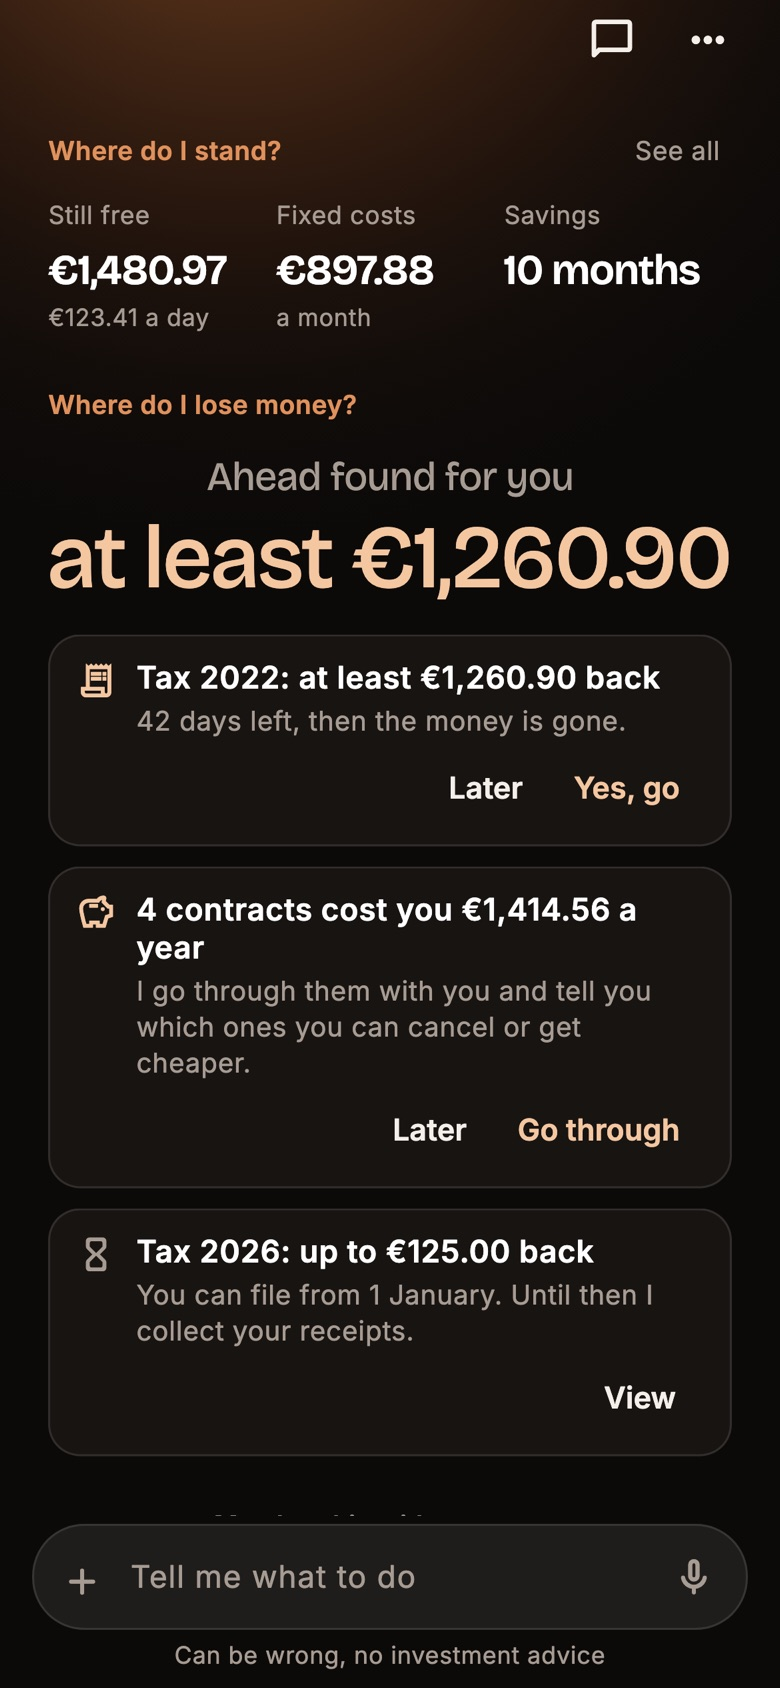
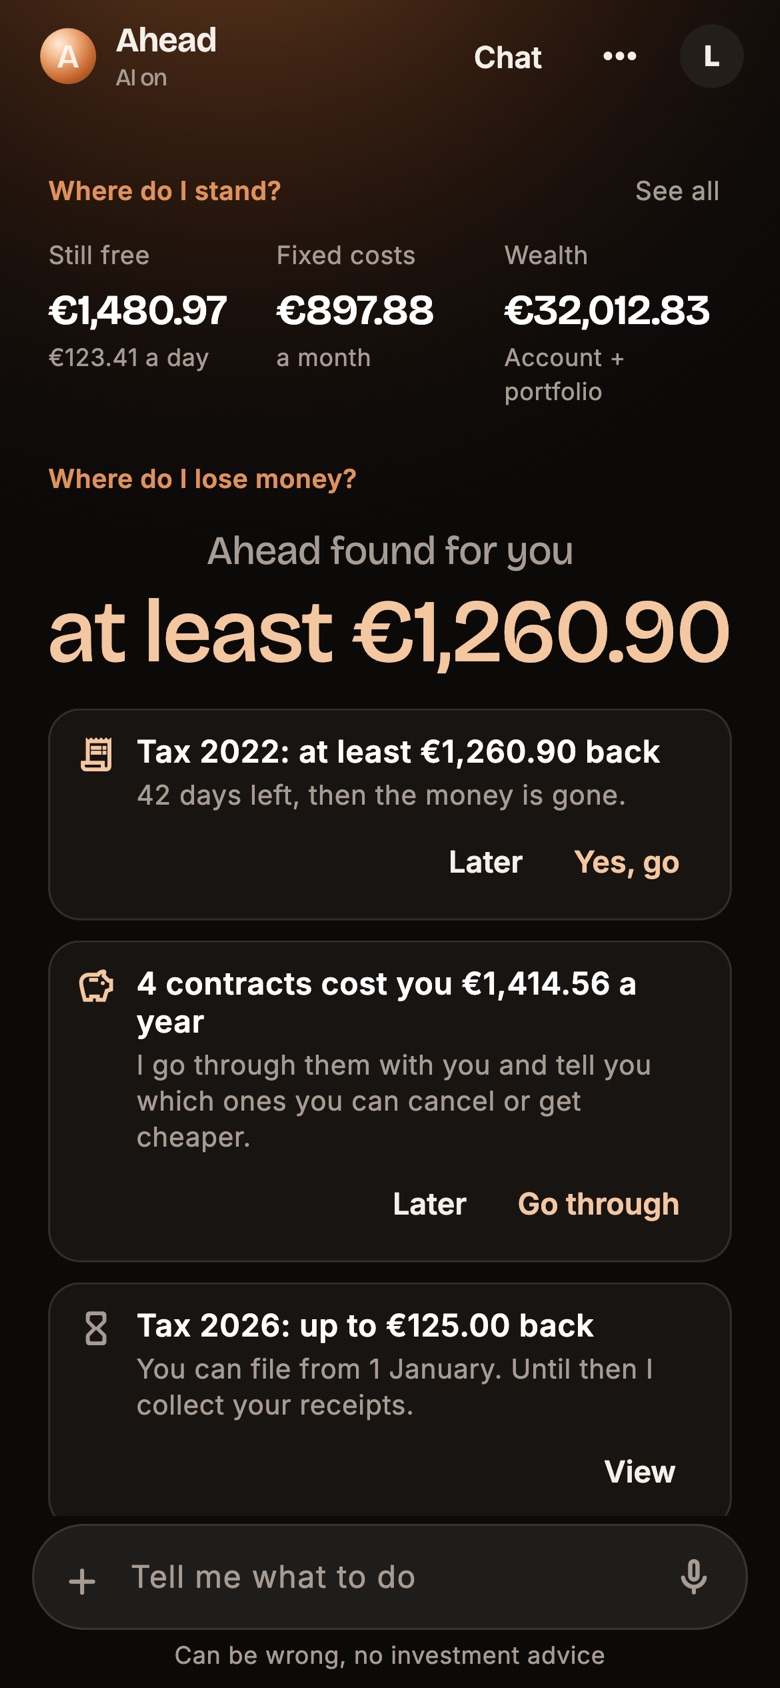
Website: kurze Startseite, Ahead im Gespräch auf dem Handy
- Startseite auf die Aussage gekürzt: drei Fragen mit je einer Zeile,
  "Frag Ahead" und die Warteliste. Die Beispiel-Kästen sind weg.
- Leiste oben nur noch mit Konzept, Sprache und "Jetzt starten"; Preis und
  Sicherheit stehen im Fuß. Am Handy kein Menü mehr.
- Am Desktop sitzen Text und Handy direkt unter der Leiste.
- Das Handy zeigt Ahead im Gespräch: Er meldet sich von selbst und bietet
  den nächsten Schritt an.
- Stile und Skripte tragen eine Versionsnummer, damit Browser nach einem
  Update nicht die alten Dateien zeigen.

diff --git a/landing/index.html b/landing/index.html
@@ -19,7 +19,7 @@
 <link rel="preconnect" href="https://fonts.googleapis.com">
 <link rel="preconnect" href="https://fonts.gstatic.com" crossorigin>
 <link href="https://fonts.googleapis.com/css2?family=Bricolage+Grotesque:opsz,wght@12..96,400..700&family=Figtree:wght@400;500;600;700&display=swap" rel="stylesheet">
-<link rel="stylesheet" href="ahead.css">
+<link rel="stylesheet" href="ahead.css?v=4">
 <script>document.documentElement.classList.add('js')</script>
 </head>
 <body>
@@ -31,19 +31,9 @@
     <a class="brand" href="#" aria-label="Ahead"><span class="coin"><svg><use href="#b"/></svg></span><span class="wm">Ahead.</span></a>
     <nav class="nav-links" aria-label="Seiten" data-en-aria-label="Pages">
       <a class="ghost-btn" href="konzept.html" data-en="Concept">Konzept</a>
-      <a class="ghost-btn" href="preis.html" data-en="Price">Preis</a>
-      <a class="ghost-btn" href="sicherheit.html" data-en="Security">Sicherheit</a>
     </nav>
     <div class="top-actions">
       <button class="ghost-btn" type="button" data-lang aria-label="Sprache wechseln / Switch language">EN</button>
-      <details class="menu">
-        <summary class="ghost-btn" data-en="Menu">Menü</summary>
-        <nav class="menu-panel" aria-label="Seiten" data-en-aria-label="Pages">
-      <a href="konzept.html" data-en="Concept">Konzept</a>
-      <a href="preis.html" data-en="Price">Preis</a>
-      <a href="sicherheit.html" data-en="Security">Sicherheit</a>
-        </nav>
-      </details>
       <a class="cta-btn" href="../" data-app data-en="Start now ↗">Jetzt starten ↗</a>
     </div>
   </div>
@@ -59,14 +49,14 @@
         <a class="btn white" href="../" data-app data-en="Start now ↗">Jetzt starten ↗</a>
         <a class="btn ghost" href="#platz" data-en="Join the waitlist">Auf die Warteliste</a>
       </div>
-      <p class="cta-note hi hi-3" data-en="No sign-up, no access to your bank.">Ohne Anmeldung, ohne Zugang zu deiner Bank.</p>
+      <p class="cta-note hi hi-3" data-en="No sign-up.">Ohne Anmeldung.</p>
     </div>
     <div class="stage" data-stage>
       <div class="phone-tilt" data-phone>
         <div class="phone">
-          <img src="app_feed.jpg" data-en-src="app_feed_en.jpg"
-               data-en-alt="Ahead's feed: where you stand in three numbers and what it found, with amount and deadline."
-               alt="Der Feed von Ahead: dein Stand in drei Zahlen und was er gefunden hat, mit Betrag und Frist."
+          <img src="app_chat.jpg?v=1" data-en-src="app_chat_en.jpg?v=1"
+               data-en-alt="Ahead in a conversation: it speaks up on its own, names a next step and offers to help with it."
+               alt="Ahead im Gespräch: Er meldet sich von selbst, nennt einen nächsten Schritt und bietet an, dabei zu helfen."
                width="780" height="1688">
         </div>
       </div>
@@ -75,84 +65,24 @@
 </section>
 
 <main>
-  <section class="chapter" id="stand">
+  <section class="chapter" id="drei">
     <div class="w">
-      <div class="proof">
-        <div class="copy rise">
-          <h2 class="say" data-en="Where do <em>I stand?</em>">Wo <em>stehe ich?</em></h2>
-          <p class="sub" data-en="What is free this month, what goes out every month no matter what, and what you own in total. From your own numbers, at a glance.">Was diesen Monat frei ist, was jeden Monat fest rausgeht und was du insgesamt hast. Aus deinen eigenen Zahlen, auf einen Blick.</p>
+      <div class="three rise">
+        <div class="q3">
+          <h2 data-en="Where do <em>I stand?</em>">Wo <em>stehe ich?</em></h2>
+          <p data-en="Three numbers from your own bookings.">Drei Zahlen aus deinen eigenen Umsätzen.</p>
         </div>
-        <div class="case rise" data-d="1">
-          <p class="case-tag" data-en="Example · where you stand">Beispiel · dein Stand</p>
-          <dl>
-            <div><dt data-en="Free this month">Frei diesen Monat</dt><dd data-en="€412">412 €</dd></div>
-            <div><dt data-en="Fixed costs a month">Fixkosten im Monat</dt><dd data-en="€1,180">1.180 €</dd></div>
-            <div><dt data-en="Wealth, account + portfolio">Vermögen, Konto + Depot</dt><dd data-en="€4,300">4.300 €</dd></div>
-          </dl>
+        <div class="q3">
+          <h2 data-en="Where do I <em>lose money?</em>">Wo <em>verliere ich Geld?</em></h2>
+          <p data-en="Every find comes with an amount.">Jeder Fund kommt mit Betrag.</p>
+        </div>
+        <div class="q3">
+          <h2 data-en="What is my <em>next step?</em>">Was ist mein <em>nächster Schritt?</em></h2>
+          <p data-en="One step. Ahead does it with you.">Ein Schritt. Ahead erledigt ihn mit dir.</p>
         </div>
       </div>
-    </div>
-  </section>
-
-  <section class="chapter" id="rechnung">
-    <div class="w">
-      <div class="proof">
-        <div class="copy rise">
-          <h2 class="say" data-en="Where do I <em>lose money?</em>">Wo <em>verliere ich Geld?</em></h2>
-          <p class="sub" data-en="An example, not a promise. The tax figure is an estimate; the real number is in your tax notice.">Ein Beispiel, keine Zusage. Die Steuer ist eine Schätzung, die echte Zahl steht im Steuerbescheid.</p>
-        </div>
-        <div class="case rise" data-d="1">
-          <p class="case-tag" data-en="Example · three finds">Beispiel · drei Funde</p>
-          <dl>
-            <div><dt data-en="Tax 2022, job started in September">Steuer 2022, Job ab September</dt><dd data-en="at least €1,260">mind. 1.260 €</dd></div>
-            <div><dt data-en="Gym, unused since March">Fitnessstudio, seit März ungenutzt</dt><dd data-en="€358.80 a year">358,80 € im Jahr</dd></div>
-            <div><dt data-en="Streaming, price went up">Streaming, Preis erhöht</dt><dd data-en="€24 a year">24 € im Jahr</dd></div>
-          </dl>
-          <p class="case-sum"><span data-en="at least">mindestens</span> <b data-en="€1,260">1.260 €</b> <span data-en="back">zurück</span></p>
-          <p class="case-due" data-en="plus €382.80 a year you can save">dazu 382,80 € im Jahr, die du sparen kannst</p>
-          <a class="btn ink" href="../" data-app data-en="Check with your numbers ↗">Mit deinen Zahlen prüfen ↗</a>
-        </div>
-      </div>
-    </div>
-  </section>
-
-  <section class="chapter" id="beispiele">
-    <div class="w">
-      <div class="proof">
-        <div class="copy rise">
-          <h2 class="say" data-en="What is my <em>next step?</em>">Was ist mein <em>nächster Schritt?</em></h2>
-          <p class="sub" data-en="Ahead names one step, concrete enough for today, and does it with you.">Ahead nennt einen Schritt, konkret genug für heute, und erledigt ihn mit dir.</p>
-        </div>
-        <div class="talk rise" data-d="1" data-talk></div>
-      </div>
-    </div>
-  </section>
-
-  <section class="chapter" id="so">
-    <div class="w">
-      <div class="rise">
-        <h2 class="say" data-en="How Ahead <em>works for you.</em>">So arbeitet Ahead <em>für dich.</em></h2>
-        <ol class="steps">
-          <li data-en="<span><b>Find.</b> Open tax years, forgotten subscriptions, price increases, double charges. Three answers or a bank statement are enough.</span>"><span><b>Finden.</b> Offene Steuerjahre, vergessene Abos, Preiserhöhungen, doppelte Abbuchungen. Drei Antworten oder ein Kontoauszug reichen.</span></li>
-          <li data-en="<span><b>Ask.</b> Every find comes with an amount. You say “Yes, go” or “Later”.</span>"><span><b>Fragen.</b> Jeder Fund kommt mit Betrag. Du sagst „Ja, los“ oder „Später“.</span></li>
-          <li data-en="<span><b>Get it done.</b> Ahead guides you through the tax return or writes the cancellation, then checks that the money really arrived.</span>"><span><b>Erledigen.</b> Ahead führt dich durch die Steuer oder schreibt die Kündigung und prüft danach, ob das Geld wirklich ankam.</span></li>
-        </ol>
-        <a class="btn ink" href="konzept.html" data-en="Read the concept →">Das Konzept lesen →</a>
-      </div>
-    </div>
-  </section>
-
-  <section class="chapter" id="nicht">
-    <div class="w">
-      <div class="rise">
-        <h2 class="say small" data-en="What Ahead doesn’t do:">Was Ahead nicht macht:</h2>
-        <div class="nots">
-          <div data-en="Move money">Geld bewegen</div>
-          <div data-en="Sell you funds">Dir Fonds verkaufen</div>
-          <div data-en="Act without your yes">Ohne dein Ja handeln</div>
-        </div>
-        <p class="punch" data-en="It finds. You decide.">Er findet. Du entscheidest.</p>
-      </div>
+      <p class="punch rise" data-en="It finds. You decide.">Er findet. Du entscheidest.</p>
+      <a class="btn ink rise" href="konzept.html" data-en="Read the concept →">Das Konzept lesen →</a>
     </div>
   </section>
 
@@ -210,11 +140,13 @@
   <div class="w">
     <span>© 2026 Ahead</span>
     <span data-en="Ahead can make mistakes. No investment, tax or legal advice.">Ahead kann sich irren. Keine Anlage-, Steuer- oder Rechtsberatung.</span>
+    <a href="preis.html" data-en="Price">Preis</a>
+    <a href="sicherheit.html" data-en="Security">Sicherheit</a>
     <a href="datenschutz.html" data-legal data-en="Privacy">Datenschutz</a>
     <a href="impressum.html" data-legal data-en="Legal notice">Impressum</a>
   </div>
 </footer>
 
-<script src="ahead.js" onerror="document.documentElement.classList.remove('js')"></script>
+<script src="ahead.js?v=4" onerror="document.documentElement.classList.remove('js')"></script>
 </body>
 </html>

diff --git a/tool/screenshots_test.dart b/tool/screenshots_test.dart
@@ -27,6 +27,7 @@ import 'package:budget_buddy/screens/auth_screens.dart';
 import 'package:budget_buddy/screens/invite_screen.dart';
 import 'package:budget_buddy/services/account_service.dart';
 import 'package:budget_buddy/services/buddy_history.dart';
+import 'package:budget_buddy/services/buddy_service.dart';
 import 'package:budget_buddy/services/buddy_memory.dart';
 import 'package:budget_buddy/services/demo_data.dart';
 import 'package:budget_buddy/services/invite_service.dart';
@@ -85,7 +86,7 @@ Future<void> _pump(WidgetTester tester, Widget home, {bool dark = true}) async {
 Future<void> _ask(WidgetTester tester, String q) async {
   await tester.enterText(find.byType(TextField), q);
   await tester.pump();
-  await tester.tap(find.bySemanticsLabel(tr('Senden')));
+  await tester.tap(find.byTooltip(tr('Senden')));
   for (var i = 0; i < 80; i++) {
     await tester.pump(const Duration(milliseconds: 50));
   }
@@ -418,5 +419,39 @@ void main() {
     await tester.runAsync(() => Future<void>.delayed(const Duration(milliseconds: 200)));
     await tester.pump(const Duration(milliseconds: 600));
     await _shot(tester, 'landing_agent_feed');
+  });
+
+  // the phone in the landing page's hero: Ahead at work, a question answered from the person's numbers
+  // and the next step it offers. A prepared conversation in the real chat screen.
+  testWidgets('landing agent chat', (tester) async {
+    final de = _lang == 'de';
+    await tester.runAsync(() async {
+      await DemoData.load();
+      await Hive.box('settings').put('account', {'id': 'u1', 'name': 'Lena', 'email': 'lena@example.com'});
+      await LifeStages.choose(LifeStages.firstJob);
+      final t = DateTime.now().subtract(const Duration(minutes: 2));
+      await BuddyHistory.save([
+        SavedMessage(true, de ? 'Wo verliere ich gerade Geld?' : 'Where am I losing money right now?', t),
+        SavedMessage(
+            false,
+            de
+                ? '**Vier Verträge kosten dich 1.414,56 € im Jahr.** Das Fitnessstudio nutzt du seit März nicht mehr.\n\n'
+                    '- Fitnessstudio: 34,90 €\n- Deutschlandticket: 58,00 €\n- Netflix: 13,99 €\n- Spotify: 10,99 €\n\n'
+                    'Nächster Schritt: Fitnessstudio kündigen. Das Schreiben habe ich vorbereitet.'
+                : '**Four contracts cost you €1,414.56 a year.** You have not used the gym since March.\n\n'
+                    '- Gym: €34.90\n- Deutschlandticket: €58.00\n- Netflix: €13.99\n- Spotify: €10.99\n\n'
+                    'Next step: Cancel the gym. I have prepared the letter.',
+            t),
+      ]);
+    });
+    AccountService.current.value = Account.fromJson({'id': 'u1', 'name': 'Lena', 'email': 'lena@example.com'});
+    await _pump(tester, const BuddyScreen(tab: true));
+    await tester.runAsync(() => Future<void>.delayed(const Duration(milliseconds: 200)));
+    await tester.pump(const Duration(milliseconds: 600));
+    // from the start to the conversation
+    await tester.tap(find.byKey(const Key('feed-toggle')));
+    await tester.pump(const Duration(milliseconds: 600));
+    await _shot(tester, 'landing_agent_chat');
+    await tester.runAsync(() => BuddyHistory.clear());
   });
 }

diff --git a/landing/konzept.html b/landing/konzept.html
@@ -16,7 +16,7 @@
 <link rel="preconnect" href="https://fonts.googleapis.com">
 <link rel="preconnect" href="https://fonts.gstatic.com" crossorigin>
 <link href="https://fonts.googleapis.com/css2?family=Bricolage+Grotesque:opsz,wght@12..96,400..700&family=Figtree:wght@400;500;600;700&display=swap" rel="stylesheet">
-<link rel="stylesheet" href="ahead.css">
+<link rel="stylesheet" href="ahead.css?v=4">
 <script>document.documentElement.classList.add('js')</script>
 </head>
 <body>
@@ -28,19 +28,9 @@
     <a class="brand" href="index.html" aria-label="Ahead"><span class="coin"><svg><use href="#b"/></svg></span><span class="wm">Ahead.</span></a>
     <nav class="nav-links" aria-label="Seiten" data-en-aria-label="Pages">
       <a class="ghost-btn" href="konzept.html" aria-current="page" data-en="Concept">Konzept</a>
-      <a class="ghost-btn" href="preis.html" data-en="Price">Preis</a>
-      <a class="ghost-btn" href="sicherheit.html" data-en="Security">Sicherheit</a>
     </nav>
     <div class="top-actions">
       <button class="ghost-btn" type="button" data-lang aria-label="Sprache wechseln / Switch language">EN</button>
-      <details class="menu">
-        <summary class="ghost-btn" data-en="Menu">Menü</summary>
-        <nav class="menu-panel" aria-label="Seiten" data-en-aria-label="Pages">
-      <a href="konzept.html" aria-current="page" data-en="Concept">Konzept</a>
-      <a href="preis.html" data-en="Price">Preis</a>
-      <a href="sicherheit.html" data-en="Security">Sicherheit</a>
-        </nav>
-      </details>
       <a class="cta-btn" href="../" data-app data-en="Start now ↗">Jetzt starten ↗</a>
     </div>
   </div>
@@ -126,11 +116,13 @@
   <div class="w">
     <span>© 2026 Ahead</span>
     <span data-en="Ahead can make mistakes. No investment, tax or legal advice.">Ahead kann sich irren. Keine Anlage-, Steuer- oder Rechtsberatung.</span>
+    <a href="preis.html" data-en="Price">Preis</a>
+    <a href="sicherheit.html" data-en="Security">Sicherheit</a>
     <a href="datenschutz.html" data-legal data-en="Privacy">Datenschutz</a>
     <a href="impressum.html" data-legal data-en="Legal notice">Impressum</a>
   </div>
 </footer>
 
-<script src="ahead.js" onerror="document.documentElement.classList.remove('js')"></script>
+<script src="ahead.js?v=4" onerror="document.documentElement.classList.remove('js')"></script>
 </body>
 </html>

diff --git a/landing/preis.html b/landing/preis.html
@@ -16,7 +16,7 @@
 <link rel="preconnect" href="https://fonts.googleapis.com">
 <link rel="preconnect" href="https://fonts.gstatic.com" crossorigin>
 <link href="https://fonts.googleapis.com/css2?family=Bricolage+Grotesque:opsz,wght@12..96,400..700&family=Figtree:wght@400;500;600;700&display=swap" rel="stylesheet">
-<link rel="stylesheet" href="ahead.css">
+<link rel="stylesheet" href="ahead.css?v=4">
 <script>document.documentElement.classList.add('js')</script>
 </head>
 <body>
@@ -28,19 +28,9 @@
     <a class="brand" href="index.html" aria-label="Ahead"><span class="coin"><svg><use href="#b"/></svg></span><span class="wm">Ahead.</span></a>
     <nav class="nav-links" aria-label="Seiten" data-en-aria-label="Pages">
       <a class="ghost-btn" href="konzept.html" data-en="Concept">Konzept</a>
-      <a class="ghost-btn" href="preis.html" aria-current="page" data-en="Price">Preis</a>
-      <a class="ghost-btn" href="sicherheit.html" data-en="Security">Sicherheit</a>
     </nav>
     <div class="top-actions">
       <button class="ghost-btn" type="button" data-lang aria-label="Sprache wechseln / Switch language">EN</button>
-      <details class="menu">
-        <summary class="ghost-btn" data-en="Menu">Menü</summary>
-        <nav class="menu-panel" aria-label="Seiten" data-en-aria-label="Pages">
-      <a href="konzept.html" data-en="Concept">Konzept</a>
-      <a href="preis.html" aria-current="page" data-en="Price">Preis</a>
-      <a href="sicherheit.html" data-en="Security">Sicherheit</a>
-        </nav>
-      </details>
       <a class="cta-btn" href="../" data-app data-en="Start now ↗">Jetzt starten ↗</a>
     </div>
   </div>
@@ -131,11 +121,13 @@
   <div class="w">
     <span>© 2026 Ahead</span>
     <span data-en="Ahead can make mistakes. No investment, tax or legal advice.">Ahead kann sich irren. Keine Anlage-, Steuer- oder Rechtsberatung.</span>
+    <a href="preis.html" data-en="Price">Preis</a>
+    <a href="sicherheit.html" data-en="Security">Sicherheit</a>
     <a href="datenschutz.html" data-legal data-en="Privacy">Datenschutz</a>
     <a href="impressum.html" data-legal data-en="Legal notice">Impressum</a>
   </div>
 </footer>
 
-<script src="ahead.js" onerror="document.documentElement.classList.remove('js')"></script>
+<script src="ahead.js?v=4" onerror="document.documentElement.classList.remove('js')"></script>
 </body>
 </html>

diff --git a/landing/sicherheit.html b/landing/sicherheit.html
@@ -16,7 +16,7 @@
 <link rel="preconnect" href="https://fonts.googleapis.com">
 <link rel="preconnect" href="https://fonts.gstatic.com" crossorigin>
 <link href="https://fonts.googleapis.com/css2?family=Bricolage+Grotesque:opsz,wght@12..96,400..700&family=Figtree:wght@400;500;600;700&display=swap" rel="stylesheet">
-<link rel="stylesheet" href="ahead.css">
+<link rel="stylesheet" href="ahead.css?v=4">
 <script>document.documentElement.classList.add('js')</script>
 </head>
 <body>
@@ -28,19 +28,9 @@
     <a class="brand" href="index.html" aria-label="Ahead"><span class="coin"><svg><use href="#b"/></svg></span><span class="wm">Ahead.</span></a>
     <nav class="nav-links" aria-label="Seiten" data-en-aria-label="Pages">
       <a class="ghost-btn" href="konzept.html" data-en="Concept">Konzept</a>
-      <a class="ghost-btn" href="preis.html" data-en="Price">Preis</a>
-      <a class="ghost-btn" href="sicherheit.html" aria-current="page" data-en="Security">Sicherheit</a>
     </nav>
     <div class="top-actions">
       <button class="ghost-btn" type="button" data-lang aria-label="Sprache wechseln / Switch language">EN</button>
-      <details class="menu">
-        <summary class="ghost-btn" data-en="Menu">Menü</summary>
-        <nav class="menu-panel" aria-label="Seiten" data-en-aria-label="Pages">
-      <a href="konzept.html" data-en="Concept">Konzept</a>
-      <a href="preis.html" data-en="Price">Preis</a>
-      <a href="sicherheit.html" aria-current="page" data-en="Security">Sicherheit</a>
-        </nav>
-      </details>
       <a class="cta-btn" href="../" data-app data-en="Start now ↗">Jetzt starten ↗</a>
     </div>
   </div>
@@ -113,11 +103,13 @@
   <div class="w">
     <span>© 2026 Ahead</span>
     <span data-en="Ahead can make mistakes. No investment, tax or legal advice.">Ahead kann sich irren. Keine Anlage-, Steuer- oder Rechtsberatung.</span>
+    <a href="preis.html" data-en="Price">Preis</a>
+    <a href="sicherheit.html" data-en="Security">Sicherheit</a>
     <a href="datenschutz.html" data-legal data-en="Privacy">Datenschutz</a>
     <a href="impressum.html" data-legal data-en="Legal notice">Impressum</a>
   </div>
 </footer>
 
-<script src="ahead.js" onerror="document.documentElement.classList.remove('js')"></script>
+<script src="ahead.js?v=4" onerror="document.documentElement.classList.remove('js')"></script>
 </body>
 </html>

diff --git a/landing/ahead.css b/landing/ahead.css
@@ -304,3 +304,23 @@ footer a{text-decoration:underline;text-underline-offset:3px;padding:10px 0}
   .js .rise .say,.js .rise h2{filter:none;transition:none}
   html{scroll-behavior:auto}
 }
+
+/* the home page's three questions: a headline and one line each */
+.three{display:grid;grid-template-columns:repeat(3,1fr);gap:clamp(24px,4vw,56px)}
+.q3 h2{font:600 clamp(26px,2.6vw,34px)/1.08 var(--display);letter-spacing:-.035em}
+.q3 h2 em{display:block;font-style:normal;color:var(--copper)}
+.q3 p{margin-top:12px;font-size:17px;line-height:1.45;color:var(--soft)}
+#drei .punch{margin-top:clamp(40px,6vw,72px)}
+#drei .btn{margin-top:24px}
+@media (max-width:900px){.three{grid-template-columns:1fr;gap:28px}}
+
+/* desktop hero: text and phone sit right under the bar, not at the bottom of a full screen */
+@media (min-width:901px){
+  .hero{min-height:0}
+  .hero-grid{align-items:center;padding-top:calc(104px + env(safe-area-inset-top));padding-bottom:0}
+  .hero-copy{padding-bottom:56px}
+  .stage{align-self:end;padding-bottom:0}
+}
+/* one page link in the bar: it stays visible on phones, no menu needed */
+.nav-links{display:flex!important}
+
